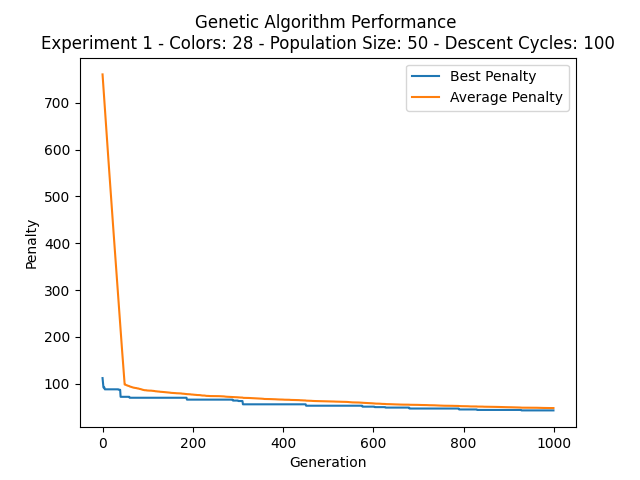
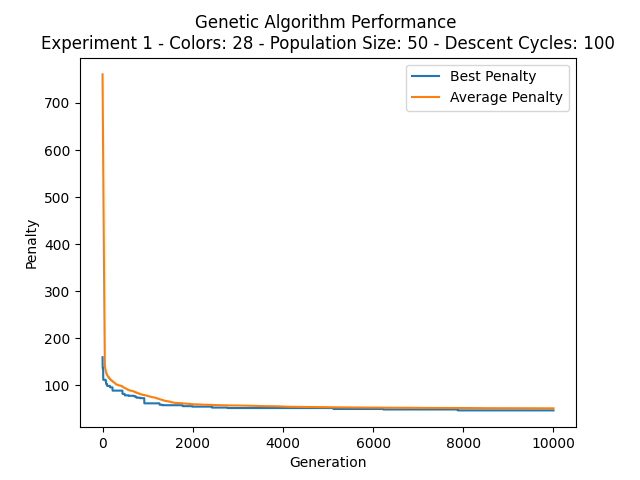
cost matrix implementation attempt

diff --git a/vertex_descent_algohrithm.py b/vertex_descent_algohrithm.py
@@ -1,50 +1,98 @@
 from models.solution import Solution
 from models.vertex import Vertex
 import random
-import sys
 
-
-def local_search_vertex_descent(solution: Solution) -> Solution:
-    
+def local_search_vertex_descent(solution: Solution, descent_cycles: int = 100) -> Solution:
     vertices = solution.graph.vertices
+    num_colors = solution.colors
 
-    random.shuffle(vertices)
+    # Assign random colors only if needed
+    for v in vertices:
+        if v.color == -1:
+            v.color = random.randrange(num_colors)
 
-    for vertex in vertices:
+    color_costs_matrix = initialize_color_costs_matrix(vertices, num_colors)
 
-        if vertex.color == -1:
-            vertex.color = random.randint(0, solution.colors - 1)
-            continue
+    for cycle in range(descent_cycles):
+        improvement_made = False
 
-        if vertex.amount_of_conflicts == 0:
-            continue
+        for vertex in vertices:
+            current_color = vertex.color
+            current_cost = color_costs_matrix[vertex.id][current_color]
 
-        current_conflicts = vertex.amount_of_conflicts
+            best_color, best_cost = find_best_color(color_costs_matrix[vertex.id])
 
-        best_color, best_conflicts = get_color_with_minimal_conflicts(vertex, solution.colors)
+            if should_recolor(current_cost, best_cost):
+                recolor_vertex(vertex, best_color, color_costs_matrix)
 
-        if best_conflicts < current_conflicts or (best_conflicts == current_conflicts and random.random() < 0.5):
-            vertex.color = best_color
-            vertex.amount_of_conflicts = best_conflicts
-        else:
-            pass
+                if best_cost < current_cost:
+                    improvement_made = True  # mark that we improved
 
-    solution.update_conflicts_amount()
-    solution.graph.update_vertices_grouped_by_color()
+        # Early stop if no improvement in this cycle
+        if not improvement_made:
+            break
+
+    # Update global conflicts at the end
+    solution.conflicts_amount = count_total_conflicts(vertices)
     return solution
 
 
-def get_color_with_minimal_conflicts(vertex: Vertex, num_colors: int) -> tuple[int, int]:
-    neighbor_color_counts = [0 for _ in range(num_colors)]
-    
+def initialize_color_costs_matrix(vertices: list[Vertex], num_colors: int) -> dict[int, list[int]]:
+    color_costs_matrix = {v.id: [0] * num_colors for v in vertices}
+
+    for v in vertices:
+        for neighbor in v.neighbors:
+            if neighbor.color != -1:
+                color_costs_matrix[v.id][neighbor.color] += 1
+
+    return color_costs_matrix
+
+
+def find_best_color(cost_row: list[int]) -> tuple[int, int]:
+    min_cost = min(cost_row)
+
+    best_colors = [
+        color for color, cost in enumerate(cost_row)
+        if cost == min_cost
+    ]
+
+    return random.choice(best_colors), min_cost
+
+
+def should_recolor(current_cost: int, best_cost: int) -> bool:
+    if best_cost < current_cost:
+        return True
+
+    if best_cost == current_cost:
+        return random.random() < 0.1  # small randomness
+
+    return False
+
+
+def recolor_vertex(vertex: Vertex, new_color: int, color_costs: dict[int, list[int]]) -> None:
+    old_color = vertex.color
+
+    if old_color == new_color:
+        return
+
+    vertex.color = new_color
+
     for neighbor in vertex.neighbors:
-        if neighbor.color != -1:
-            neighbor_color_counts[neighbor.color] += 1
+        neighbor_costs = color_costs[neighbor.id]
 
-    min_conflicts = min(neighbor_color_counts)
+        # Neighbor no longer conflicts with old color
+        neighbor_costs[old_color] -= 1
 
-    best_colors = [color for color in range(num_colors) if neighbor_color_counts[color] == min_conflicts]
+        # Neighbor now conflicts with new color
+        neighbor_costs[new_color] += 1
 
-    chosen_color = random.choice(best_colors)
 
-    return chosen_color, min_conflicts
+def count_total_conflicts(vertices: list[Vertex]) -> int:
+    total = 0
+
+    for v in vertices:
+        for neighbor in v.neighbors:
+            if v.color == neighbor.color:
+                total += 1
+
+    return total // 2  # each edge counted twice

diff --git a/gls_algorithm.py b/gls_algorithm.py
@@ -8,7 +8,7 @@ from utils import copy_graph_vertices_grouped_by_color, create_copy_of_vertices
 from evaluation import GenerationResult
 import random
 
-def genetic_local_search(graph_name: str, colors: int, population_size: int, descent_cycles: int = 100, max_generations: int = 1000) -> tuple[Solution, list[GenerationResult]]:
+def genetic_local_search(graph_name: str, colors: int, population_size: int, descent_cycles: int = 100, max_generations: int = 10000) -> tuple[Solution, list[GenerationResult]]:
     
     best_solution = None
     generation_results: list[GenerationResult] = []
@@ -35,20 +35,7 @@ def genetic_local_search(graph_name: str, colors: int, population_size: int, des
         child = greedy_partitioning_crossover(parent1, parent2)
 
         # Vertex descent
-        # descent_cycles_ran = 0
-        for i in range(descent_cycles):
-            # descent_cycles_ran += 1
-            conflicts_before = child.conflicts_amount
-
-            child = local_search_vertex_descent(child)
-            # child.graph.update_vertices_grouped_by_color()
-
-            conflicts_after = child.conflicts_amount
-
-            if conflicts_after >= conflicts_before:
-                break
-
-        # print(f"Generation {generation}: Ran {descent_cycles_ran} descent cycles.")
+        child = local_search_vertex_descent(child, descent_cycles)
 
         worst_solution: Solution = max(population, key=lambda s: s.conflicts_amount)
         if child.conflicts_amount <= worst_solution.conflicts_amount:

diff --git a/main.py b/main.py
@@ -20,7 +20,7 @@ def main():
 
     # not used for report
     if choice == "1":
-        colors = 28
+        colors = 50
         population_size = 50
         descent_cycles = 100
         start_time = time.time()
